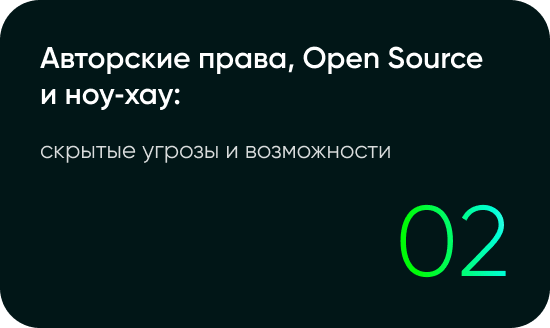
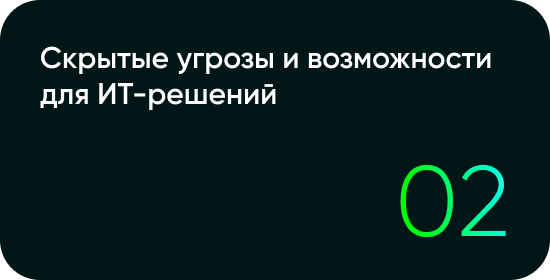
change mik-464

diff --git a/mik-464/Охрана ИТ‑решений.html b/mik-464/Охрана ИТ‑решений.html
@@ -131,8 +131,13 @@
                         <table border="0" cellpadding="0" cellspacing="0" role="presentation" style="vertical-align:top;" width="100%">
                             <tbody>
                             <tr>
+                                <td align="left" style="font-size:0px;word-break:break-word;padding-bottom:16px;">
+                                    <div style="font-family: Gilroy, Helvetica, Arial, sans-serif;font-size:16px;font-weight:400;line-height:120%;text-align:left;color:#000000;max-width:505px;width:100%;">Если компания создает ИТ-продукт, вопрос об&nbsp;обеспечении его правовой охраны должен возникать уже на&nbsp;этапе разработки. Промедление может создавать немалые риски: новизна раскрыта, сроки упущены, права не&nbsp;оформлены.</div>
+                                </td>
+                            </tr>
+                            <tr>
                                 <td align="left" style="font-size:0px;word-break:break-word;">
-                                    <div style="font-family: Gilroy, Helvetica, Arial, sans-serif;font-size:16px;font-weight:400;line-height:120%;text-align:left;color:#000000;max-width:505px;width:100%;">Когда компания создаёт технологический продукт, рано или поздно возникает вопрос: как защитить разработку и&nbsp;закрепить права на&nbsp;неё. Для&nbsp;ИТ это особенно актуально: программные продукты, алгоритмы и&nbsp;технологические платформы часто становятся главным активом бизнеса, а&nbsp;охрана этих активов имеет свои особенности.</div>
+                                    <div style="font-family: Gilroy, Helvetica, Arial, sans-serif;font-size:16px;font-weight:700;line-height:120%;text-align:left;color:#000000;max-width:505px;width:100%;">Выбор способа правовой охраны&nbsp;— патентование, ноу-хау, авторское право или&nbsp;их&nbsp;комбинация&nbsp;— напрямую влияет на&nbsp;устойчивость бизнеса.</div>
                                 </td>
                             </tr>
                             </tbody>
@@ -156,7 +161,7 @@
                             <tbody>
                             <tr>
                                 <td align="left" style="font-size:0px;word-break:break-word;">
-                                    <div style="font-family: Gilroy, Helvetica, Arial, sans-serif;font-size:20px;font-weight:500;line-height:120%;text-align:left;color:#000000;">МИК приглашает на&nbsp;бесплатную онлайн‑программу «Охрана&nbsp;ИТ‑решений», где&nbsp;вы узнаете:</div>
+                                    <div style="font-family: Gilroy, Helvetica, Arial, sans-serif;font-size:20px;font-weight:500;line-height:120%;text-align:left;color:#000000;">МИК приглашает на&nbsp;бесплатную онлайн-программу «Охрана ИТ-решений», где&nbsp;вы узнаете:</div>
                                 </td>
                             </tr>
                             </tbody>
@@ -184,7 +189,7 @@
                                         <tbody>
                                         <tr>
                                             <td style="width:275px;margin-left:4px;margin-right:4px;margin-bottom:8px;">
-                                                <img alt="01: Интеллектуальная собственность (ИС) — ваш актив: как считать её экономическую ценность" height="auto" src="https://cp.unisender.com/ru/user_file?resource=images&user_id=5608985&name=mik-464-content-img-1_1.png" style="border:0;display:block;outline:none;text-decoration:none;height:auto;width:100%;font-size:13px;" width="275" />
+                                                <img alt="01: Как считать экономическую ценность ИС" height="auto" src="https://cp.unisender.com/ru/user_file?resource=images&user_id=5608985&name=mik-464-content-img-1_1.png" style="border:0;display:block;outline:none;text-decoration:none;height:auto;width:100%;font-size:13px;" width="275" />
                                             </td>
                                         </tr>
                                         </tbody>
@@ -204,7 +209,7 @@
                                         <tbody>
                                         <tr>
                                             <td style="width:275px;margin-left:4px;margin-right:4px;margin-bottom:8px;">
-                                                <img alt="02: Авторские права, Open Source и ноу‑хау: скрытые угрозы и возможности" height="auto" src="https://cp.unisender.com/ru/user_file?resource=images&user_id=5608985&name=mik-464-content-img-1_2.png" style="border:0;display:block;outline:none;text-decoration:none;height:auto;width:100%;font-size:13px;" width="275" />
+                                                <img alt="02: Скрытые угрозы и возможности для ИТ-решений" height="auto" src="https://cp.unisender.com/ru/user_file?resource=images&user_id=5608985&name=mik-464-content-img-1_2.png" style="border:0;display:block;outline:none;text-decoration:none;height:auto;width:100%;font-size:13px;" width="275" />
                                             </td>
                                         </tr>
                                         </tbody>
@@ -236,7 +241,7 @@
                                         <tbody>
                                         <tr>
                                             <td style="width:275px;margin-left:4px;margin-right:4px;margin-bottom:8px;">
-                                                <img alt="03: Патентование в ИТ: когда это нужно и как подготовить заявку" height="auto" src="https://cp.unisender.com/ru/user_file?resource=images&user_id=5608985&name=mik-464-content-img-1_3.png" style="border:0;display:block;outline:none;text-decoration:none;height:auto;width:100%;font-size:13px;" width="275" />
+                                                <img alt="03: Когда нужно патентование и как подготовить заявку" height="auto" src="https://cp.unisender.com/ru/user_file?resource=images&user_id=5608985&name=mik-464-content-img-1_3.png" style="border:0;display:block;outline:none;text-decoration:none;height:auto;width:100%;font-size:13px;" width="275" />
                                             </td>
                                         </tr>
                                         </tbody>
@@ -256,189 +261,11 @@
                                         <tbody>
                                         <tr>
                                             <td style="width:275px;margin-left:4px;margin-right:4px;margin-bottom:8px;">
-                                                <img alt="04: Стратегия управления ИТ‑активами: от патентной стратегии до коммерциализации" height="auto" src="https://cp.unisender.com/ru/user_file?resource=images&user_id=5608985&name=mik-464-content-img-1_4.png" style="border:0;display:block;outline:none;text-decoration:none;height:auto;width:100%;font-size:13px;" width="275" />
+                                                <img alt="04: Стратегия управления ИТ-активами" height="auto" src="https://cp.unisender.com/ru/user_file?resource=images&user_id=5608985&name=mik-464-content-img-1_4.png" style="border:0;display:block;outline:none;text-decoration:none;height:auto;width:100%;font-size:13px;" width="275" />
                                             </td>
                                         </tr>
                                         </tbody>
                                     </table>
-                                </td>
-                            </tr>
-                            </tbody>
-                        </table>
-                    </div>
-                    <!--[if mso | IE]></td></tr></table><![endif]-->
-                </td>
-            </tr>
-            </tbody>
-        </table>
-    </div>
-    <!--[if mso | IE]></td></tr></table><table align="center" border="0" cellpadding="0" cellspacing="0" class="" style="width:560px;" width="560" ><tr><td style="line-height:0px;font-size:0px;mso-line-height-rule:exactly;"><![endif]-->
-    <div style="margin:0px auto;max-width:560px;border-radius:20px;background:#F5F7F8;border:1px solid #DDE3E7;margin-top:20px;">
-        <table align="center" border="0" cellpadding="0" cellspacing="0" role="presentation" style="width:100%;border-radius:20px;background:#F5F7F8;">
-            <tbody>
-            <tr>
-                <td style="direction:ltr;font-size:0px;padding:19px 15px 30px 20px;">
-                    <!--[if mso | IE]><table role="presentation" border="0" cellpadding="0" cellspacing="0"><tr><td class="" style="vertical-align:top;max-width:476px;width:100%" ><![endif]-->
-                    <div class="mj-outlook-group-fix" style="font-size:0px;text-align:left;direction:ltr;display:inline-block;vertical-align:top;max-width:476px;width:100%;">
-                        <table border="0" cellpadding="0" cellspacing="0" role="presentation" style="vertical-align:top;" width="100%">
-                            <tbody>
-                            <tr>
-                                <td align="left" style="font-size:0px;word-break:break-word;padding-bottom:11px;">
-                                    <div style="font-family: Gilroy, Helvetica, Arial, sans-serif;font-size:32px;font-weight:500;line-height:120%;text-align:left;color:#000000;">ОБУЧЕНИЕ ВКЛЮЧАЕТ:</div>
-                                </td>
-                            </tr>
-                            </tbody>
-                        </table>
-                    </div>
-                    <!--[if mso | IE]></td><td class="" style="vertical-align:top;width:100%;" ><![endif]-->
-                    <div class="mj-outlook-group-fix" style="font-size:0px;text-align:left;direction:ltr;display:inline-block;vertical-align:top;width:100%;">
-                        <table border="0" cellpadding="0" cellspacing="0" role="presentation" style="vertical-align:top;" width="100%">
-                            <tbody>
-                            <tr>
-                                <td style="direction:ltr;font-size:0px;border-top:1px solid #DDE3E7;padding-bottom:22px;">
-                                    <!--[if mso | IE]><table role="presentation" border="0" cellpadding="0" cellspacing="0"><tr><td class="" style="vertical-align:top;width:62px;" ><![endif]-->
-                                    <div class="mj-outlook-group-fix" style="font-size:0px;text-align:left;direction:ltr;display:inline-block;vertical-align:top;width:62px;">
-                                        <table border="0" cellpadding="0" cellspacing="0" role="presentation" style="vertical-align:top;" width="100%">
-                                            <tbody>
-                                            <tr>
-                                                <td style="font-size:0px;word-break:break-word;">
-                                                    <table border="0" cellpadding="0" cellspacing="0" role="presentation" style="border-collapse:collapse;border-spacing:0px;">
-                                                        <tbody>
-                                                        <tr>
-                                                            <td style="width:30px;padding-top:17px;">
-                                                                <img alt="01" height="auto" src="https://cp.unisender.com/ru/user_file?resource=images&user_id=5608985&name=mik-455-number-1.png" style="border:0;display:block;outline:none;text-decoration:none;height:auto;width:100%;font-size:13px;" width="30" />
-                                                            </td>
-                                                        </tr>
-                                                        </tbody>
-                                                    </table>
-                                                </td>
-                                            </tr>
-                                            </tbody>
-                                        </table>
-                                    </div>
-                                    <!--[if mso | IE]></td><td class="" style="vertical-align:top;width:190px;" ><![endif]-->
-                                    <div class="mj-outlook-group-fix" style="font-size:0px;text-align:left;direction:ltr;display:inline-block;vertical-align:top;width:190px;">
-                                        <table border="0" cellpadding="0" cellspacing="0" role="presentation" style="vertical-align:top;" width="100%">
-                                            <tbody>
-                                            <tr>
-                                                <td align="left" style="font-size:0px;word-break:break-word;padding-top:12px;">
-                                                    <div style="font-family: Gilroy, Helvetica, Arial, sans-serif;font-size:18px;font-weight:600;line-height:120%;text-align:left;color:#2D2D2D;max-width:165px;width:100%;">теоретический блок</div>
-                                                </td>
-                                            </tr>
-                                            </tbody>
-                                        </table>
-                                    </div>
-                                    <!--[if mso | IE]></td><td class="" style="vertical-align:top;max-width:260px;width:100%;" ><![endif]-->
-                                    <div class="mj-outlook-group-fix" style="font-size:0px;text-align:left;direction:ltr;display:inline-block;vertical-align:top;max-width:260px;width:100%;">
-                                        <table border="0" cellpadding="0" cellspacing="0" role="presentation" style="vertical-align:top;" width="100%">
-                                            <tbody>
-                                            <tr>
-                                                <td align="left" style="font-size:0px;word-break:break-word;padding-top:19px;">
-                                                    <div style="font-family: Gilroy, Helvetica, Arial, sans-serif;font-size:12px;font-weight:400;line-height:120%;text-align:left;color:#2D2D2D;max-width:268px;width:100%;">об&nbsp;особенностях охраны ИС: 6&nbsp;модулей на&nbsp;~3&nbsp;часа изучения</div>
-                                                </td>
-                                            </tr>
-                                            </tbody>
-                                        </table>
-                                    </div>
-                                    <!--[if mso | IE]></td></tr></table><![endif]-->
-                                </td>
-                            </tr>
-                            <tr>
-                                <td style="direction:ltr;font-size:0px;border-top:1px solid #DDE3E7;padding-bottom:23px;">
-                                    <!--[if mso | IE]><table role="presentation" border="0" cellpadding="0" cellspacing="0"><tr><td class="" style="vertical-align:top;width:62px;" ><![endif]-->
-                                    <div class="mj-outlook-group-fix" style="font-size:0px;text-align:left;direction:ltr;display:inline-block;vertical-align:top;width:62px;">
-                                        <table border="0" cellpadding="0" cellspacing="0" role="presentation" style="vertical-align:top;" width="100%">
-                                            <tbody>
-                                            <tr>
-                                                <td style="font-size:0px;word-break:break-word;">
-                                                    <table border="0" cellpadding="0" cellspacing="0" role="presentation" style="border-collapse:collapse;border-spacing:0px;">
-                                                        <tbody>
-                                                        <tr>
-                                                            <td style="width:30px;padding-top:17px;">
-                                                                <img alt="02" height="auto" src="https://cp.unisender.com/ru/user_file?resource=images&user_id=5608985&name=mik-455-number-2.png" style="border:0;display:block;outline:none;text-decoration:none;height:auto;width:100%;font-size:13px;" width="30" />
-                                                            </td>
-                                                        </tr>
-                                                        </tbody>
-                                                    </table>
-                                                </td>
-                                            </tr>
-                                            </tbody>
-                                        </table>
-                                    </div>
-                                    <!--[if mso | IE]></td><td class="" style="vertical-align:top;width:190px;" ><![endif]-->
-                                    <div class="mj-outlook-group-fix" style="font-size:0px;text-align:left;direction:ltr;display:inline-block;vertical-align:top;width:190px;">
-                                        <table border="0" cellpadding="0" cellspacing="0" role="presentation" style="vertical-align:top;" width="100%">
-                                            <tbody>
-                                            <tr>
-                                                <td align="left" style="font-size:0px;word-break:break-word;padding-top:23px;">
-                                                    <div style="font-family: Gilroy, Helvetica, Arial, sans-serif;font-size:18px;font-weight:600;line-height:120%;text-align:left;color:#2D2D2D">тестирование</div>
-                                                </td>
-                                            </tr>
-                                            </tbody>
-                                        </table>
-                                    </div>
-                                    <!--[if mso | IE]></td><td class="" style="vertical-align:top;max-width:265px;width:100%;" ><![endif]-->
-                                    <div class="mj-outlook-group-fix" style="font-size:0px;text-align:left;direction:ltr;display:inline-block;vertical-align:top;max-width:265px;width:100%;">
-                                        <table border="0" cellpadding="0" cellspacing="0" role="presentation" style="vertical-align:top;" width="100%">
-                                            <tbody>
-                                            <tr>
-                                                <td align="left" style="font-size:0px;word-break:break-word;padding-top:11px;">
-                                                    <div style="font-family: Gilroy, Helvetica, Arial, sans-serif;font-size:12px;font-weight:400;line-height:120%;text-align:left;color:#2D2D2D;max-width:268px;width:100%;">для&nbsp;закрепления знаний и&nbsp;получения сертификата или&nbsp;удостоверения о&nbsp;повышении квалификации</div>
-                                                </td>
-                                            </tr>
-                                            </tbody>
-                                        </table>
-                                    </div>
-                                    <!--[if mso | IE]></td></tr></table><![endif]-->
-                                </td>
-                            </tr>
-                            <tr>
-                                <td style="direction:ltr;font-size:0px;border-top:1px solid #DDE3E7;">
-                                    <!--[if mso | IE]><table role="presentation" border="0" cellpadding="0" cellspacing="0"><tr><td class="" style="vertical-align:top;width:62px;" ><![endif]-->
-                                    <div class="mj-outlook-group-fix" style="font-size:0px;text-align:left;direction:ltr;display:inline-block;vertical-align:top;width:62px;">
-                                        <table border="0" cellpadding="0" cellspacing="0" role="presentation" style="vertical-align:top;" width="100%">
-                                            <tbody>
-                                            <tr>
-                                                <td style="font-size:0px;word-break:break-word;">
-                                                    <table border="0" cellpadding="0" cellspacing="0" role="presentation" style="border-collapse:collapse;border-spacing:0px;">
-                                                        <tbody>
-                                                        <tr>
-                                                            <td style="width:30px;padding-top:17px;">
-                                                                <img alt="03" height="auto" src="https://cp.unisender.com/ru/user_file?resource=images&user_id=5608985&name=mik-455-number-3.png" style="border:0;display:block;outline:none;text-decoration:none;height:auto;width:100%;font-size:13px;" width="30" />
-                                                            </td>
-                                                        </tr>
-                                                        </tbody>
-                                                    </table>
-                                                </td>
-                                            </tr>
-                                            </tbody>
-                                        </table>
-                                    </div>
-                                    <!--[if mso | IE]></td><td class="" style="vertical-align:top;width:190px;" ><![endif]-->
-                                    <div class="mj-outlook-group-fix" style="font-size:0px;text-align:left;direction:ltr;display:inline-block;vertical-align:top;width:190px;">
-                                        <table border="0" cellpadding="0" cellspacing="0" role="presentation" style="vertical-align:top;" width="100%">
-                                            <tbody>
-                                            <tr>
-                                                <td align="left" style="font-size:0px;word-break:break-word;padding-top:11px;">
-                                                    <div style="font-family: Gilroy, Helvetica, Arial, sans-serif;font-size:18px;font-weight:600;line-height:120%;text-align:left;color:#2D2D2D;max-width:158px;width:100%;">практическую работу</div>
-                                                </td>
-                                            </tr>
-                                            </tbody>
-                                        </table>
-                                    </div>
-                                    <!--[if mso | IE]></td><td class="" style="vertical-align:top;max-width:260px;width:100%;" ><![endif]-->
-                                    <div class="mj-outlook-group-fix" style="font-size:0px;text-align:left;direction:ltr;display:inline-block;vertical-align:top;max-width:260px;width:100%;">
-                                        <table border="0" cellpadding="0" cellspacing="0" role="presentation" style="vertical-align:top;" width="100%">
-                                            <tbody>
-                                            <tr>
-                                                <td align="left" style="font-size:0px;word-break:break-word;padding-top:25px;">
-                                                    <div style="font-family: Gilroy, Helvetica, Arial, sans-serif;font-size:12px;font-weight:400;line-height:120%;text-align:left;color:#2D2D2D;">над&nbsp;собственным проектом и&nbsp;разбор кейсов</div>
-                                                </td>
-                                            </tr>
-                                            </tbody>
-                                        </table>
-                                    </div>
-                                    <!--[if mso | IE]></td></tr></table><![endif]-->
                                 </td>
                             </tr>
                             </tbody>
@@ -455,7 +282,7 @@
         <table align="center" border="0" cellpadding="0" cellspacing="0" role="presentation" style="width:100%;">
             <tbody>
             <tr>
-                <td style="direction:ltr;font-size:0px;padding:28px 20px 21px;">
+                <td style="direction:ltr;font-size:0px;padding:18px 20px 21px;">
                     <!--[if mso | IE]><table role="presentation" border="0" cellpadding="0" cellspacing="0"><tr><td class="" style="vertical-align:top;width:100%" ><![endif]-->
                     <div class="mj-outlook-group-fix" style="font-size:0px;text-align:left;direction:ltr;display:inline-block;vertical-align:top;width:100%;">
                         <table border="0" cellpadding="0" cellspacing="0" role="presentation" style="vertical-align:top;" width="100%">
@@ -662,7 +489,7 @@
                             <tbody>
                             <tr>
                                 <td align="left" style="font-size:0px;word-break:break-word;">
-                                    <div style="font-family: Gilroy, Helvetica, Arial, sans-serif;font-size:16px;font-weight:400;line-height:120%;text-align:left;color:#000000;">Своим опытом делятся практики из&nbsp;ведущих ИТ‑компаний и&nbsp;юридических фирм: руководитель патентного отдела <span style="font-weight:600;">Яндекса,</span> руководитель Патентного офиса <span style="font-weight:600;">Сбера,</span> эксперты практик ИС <span style="font-weight:600;">«ВЕРБА&nbsp;ЛИГАЛ»</span> и&nbsp;<span style="font-weight:600;">«АГ‑ЛИГАЛ».</span></div>
+                                    <div style="font-family: Gilroy, Helvetica, Arial, sans-serif;font-size:16px;font-weight:400;line-height:120%;text-align:left;color:#000000;max-width:505px;width:100%;"><span style="font-weight:600;">В&nbsp;6&nbsp;теоретических модулях</span> своим опытом делятся практики из&nbsp;ведущих ИТ‑компаний и&nbsp;юридических фирм: руководитель патентного отдела <span style="font-weight:600;">Яндекса,</span> руководитель Патентного офиса <span style="font-weight:600;">Сбера,</span> эксперты практик ИС <span style="font-weight:600;">«ВЕРБА&nbsp;ЛИГАЛ»</span> и&nbsp;<span style="font-weight:600;">«АГ‑ЛИГАЛ».</span></div>
                                 </td>
                             </tr>
                             </tbody>
@@ -686,7 +513,7 @@
                             <tbody>
                             <tr>
                                 <td align="center" style="font-size:0px;word-break:break-word;">
-                                    <div style="font-family: Gilroy, Helvetica, Arial, sans-serif;font-size:20px;font-weight:500;line-height:120%;text-align:center;color:#000000;">Подайте заявку на&nbsp;программу и&nbsp;получите инструменты, которые помогут сохранить ценность вашей технологии.</div>
+                                    <div style="font-family: Gilroy, Helvetica, Arial, sans-serif;font-size:20px;font-weight:500;line-height:120%;text-align:center;color:#000000;max-width:460px;width:100%;">Подайте заявку на&nbsp;программу и&nbsp;получите&nbsp;инструменты, которые помогут сохранить ценность вашей технологии.</div>
                                 </td>
                             </tr>
                             </tbody>
